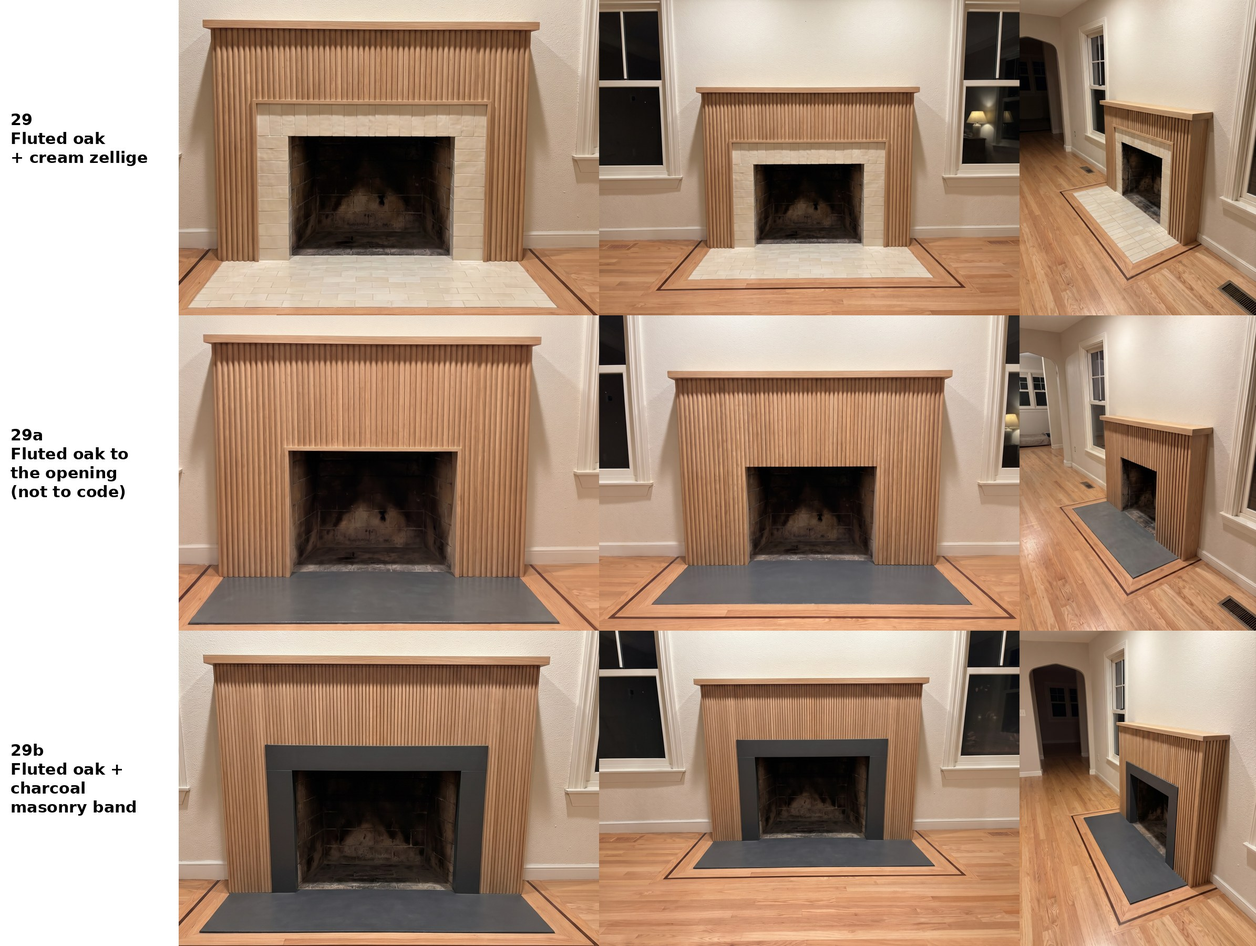
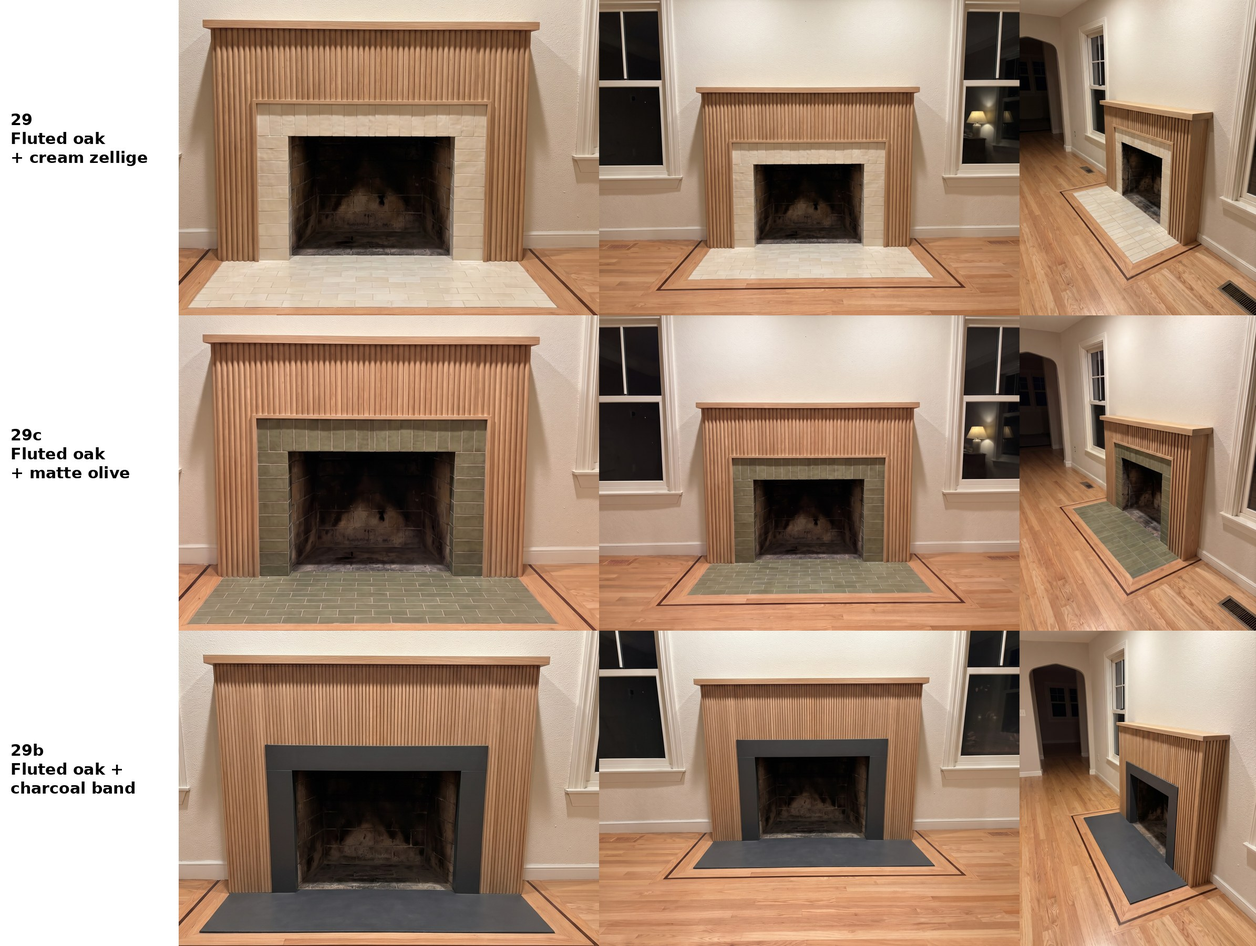
Add 29c: fluted oak surround with matte olive tile
Claude-Session: https://claude.ai/code/session_01QyJwiufazgBQCwJDT1w7F7

diff --git a/fireplace-designs/scripts/render_29c.py b/fireplace-designs/scripts/render_29c.py
@@ -1,0 +1,19 @@
+"""29c: option 29's fluted white-oak surround with option 26's matte olive tile. Edits the 29 renders."""
+import sys, concurrent.futures as cf
+sys.path.insert(0, "/home/user/Banana/fireplace-designs/scripts")
+import render_simple as s
+
+s.BASE = "29-fluted-oak-cream-zellige"
+s.EDIT = ("Edit this photo. Keep the fluted natural white-oak surround and slim oak shelf exactly as they are (same shape, "
+          "size, color and position), and keep the walls, windows, window trim, firebox, wood floor with its border, "
+          "camera framing and lighting exactly the same. Change ONLY the tile: {spec} Add no lamps, decor or furniture.")
+s.SPECS = {"29c-fluted-oak-olive-matte": (
+    "replace the cream zellige band around the firebox opening with matte handmade-look olive-green 2x8 inch tiles laid "
+    "in a vertical stack with thin warm-gray grout and slight tonal variation, and replace the cream hearth with the same "
+    "matte olive 2x8 tiles laid horizontally in a straight stack, flush inside the wood floor border.")}
+
+if __name__ == "__main__":
+    jobs = [(v, w) for v in s.SPECS for w in s.VIEWS]
+    with cf.ThreadPoolExecutor(3) as ex:
+        for out, status in ex.map(lambda j: s.render(*j), jobs):
+            print(status, out, flush=True)

diff --git a/fireplace-designs/README.md b/fireplace-designs/README.md
@@ -139,6 +139,10 @@ The woodwork is the same as 21 in every option. Only the tile changes. `scripts/
 - **29a:** fluted white oak covers the whole front right up to the firebox opening, with a hearth painted matte charcoal. For looks only: wood this close to the opening does not meet fireplace clearance codes. `scripts/render_29ab.py` generates it.
 - **29b:** fluted white oak over the outer brick. The existing raised masonry band around the opening (about 6", noncombustible) is kept and painted matte charcoal, and the hearth is painted charcoal to match. `scripts/render_29b.py` generates it.
 
+## Round 15: 29c
+
+**29c · Fluted oak + matte olive:** option 29's fluted white-oak surround with option 26's matte olive 2x8 tile, stacked vertically around the opening and laid horizontally on the hearth. `scripts/render_29c.py` generates it, and `comparison-29-variants.jpg` now compares 29, 29c and 29b.
+
 `comparison.jpg` puts every option beside the originals. Each option folder has `front-closeup`, `front-wide` and `side-angle` views.
 The close-ups are cut from each option's front-wide render, so they match the original close-up framing exactly.
 `scripts/` holds the generation (`render.py`) and close-up framing (`align.py`) scripts. To run them, set `GEMINI_API_KEY`.
